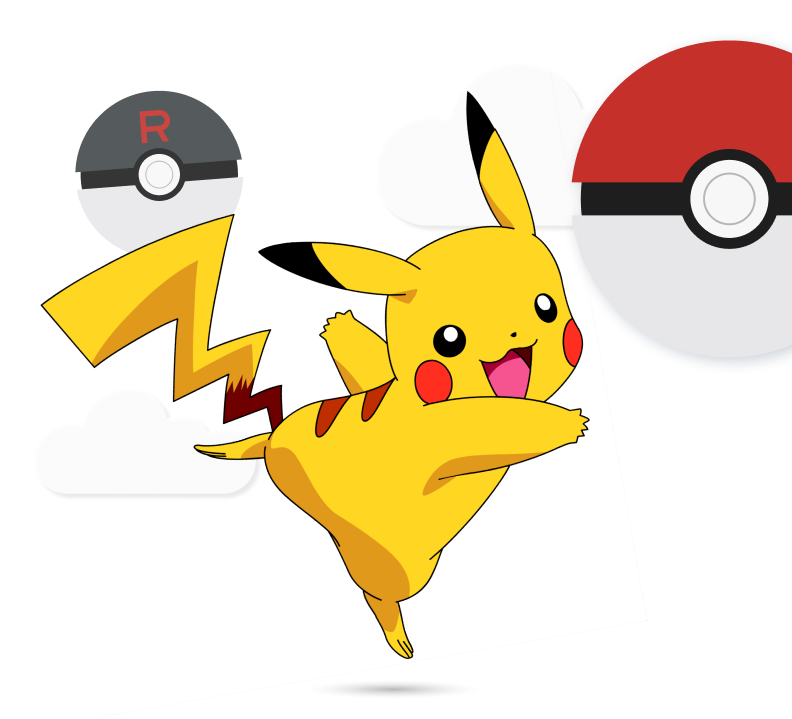
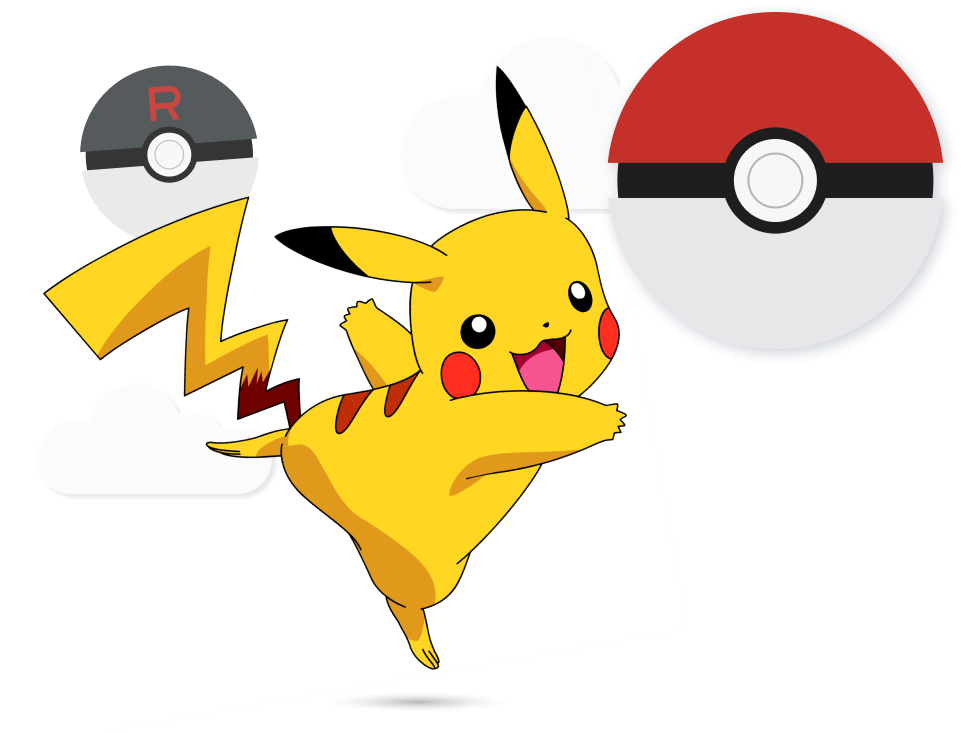
added: new page

diff --git a/pokedex.html b/pokedex.html
@@ -1,0 +1,86 @@
+<!DOCTYPE html>
+<html lang="pt-br">
+  <head>
+    <meta charset="UTF-8" />
+    <meta http-equiv="X-UA-Compatible" content="IE=edge" />
+    <meta name="viewport" content="width=device-width, initial-scale=1.0" />
+    <link rel="stylesheet" href="./styles/style.css" />
+    <link rel="shortcut icon" href="images/favicon.ico" type="image/x-icon" />
+    <link
+      href="https://fonts.googleapis.com/css2?family=Dancing+Script:wght@400;500;600;700&family=Fredoka+One&family=Inter:wght@100;300;500;700;900&family=Karla:wght@200;300;400;500;600;700;800&family=Rakkas&family=Roboto:wght@100;300;400;500;700;900&display=swap"
+      rel="stylesheet"
+    />
+    <title>POKÉDEX</title>
+  </head>
+  <body>
+    <header>
+      <div class="container-background">
+        <div class="container centralization">
+          <div class="menu">
+            <nav>
+              <a href="#"><img src="images/Logo.png" alt="" /></a>
+              <ul>
+                <li><a href="#">Home</a></li>
+                <li><a href="#">Pokédex</a></li>
+                <li><a href="#">Legendaries</a></li>
+                <li><a href="#">Documentation</a></li>
+              </ul>
+            </nav>
+          </div>
+          <div class="menu-mobile">
+            <nav>
+              <a href="#"><img src="images/Logo.png" alt="" /></a>
+              <button>
+                <hr />
+                <hr />
+                <hr />
+              </button>
+            </nav>
+          </div>
+        </div>
+      </div>
+    </header>
+    <main>
+      <div class="container-pokedex centralization">
+        <div class="number-pkm">
+          <h1>800 <strong>Pokemons</strong> for you to choose your favorite</h1>
+          <input type="text" placeholder="Encuentra tu Pokémon..." />
+        </div>
+        <div class="selects">
+          <div class="select-type">
+            <select name="TIPO">
+              <option disabled selected>TIPO</option>
+              <option value="Normal">Normal</option>
+              <option value="Eletric">Eletric</option>
+              <option value="Water">Water</option>
+              <option value="fire">fire</option>
+            </select>
+          </div>
+          <div class="select-type">
+            <select name="ATAQUE">
+              <option disabled selected>ATAQUE</option>
+              <option value="Normal">Normal</option>
+              <option value="Eletric">Eletric</option>
+              <option value="Water">Water</option>
+              <option value="fire">fire</option>
+            </select>
+          </div>
+          <div class="select-type">
+            <select name="TIPO">
+              <option disabled selected>EXPERIÊNCIA</option>
+              <option value="Normal">☐ Normal</option>
+              <option value="Eletric">☑ Eletric</option>
+              <option value="Water">☐ Water</option>
+              <option value="fire">☐ fire</option>
+            </select>
+          </div>
+        </div>
+        <div class="info-bottom">
+          <p>Make with ❤ for the PokéSpartans team Platzi Master</p>
+          <p>Ours Team</p>
+        </div>
+      </div>
+    </main>
+    <footer></footer>
+  </body>
+</html>

diff --git a/styles/style.scss b/styles/style.scss
@@ -93,13 +93,18 @@
   align-items: center ;
 }
 .call-to-action-main {
+  width: 100%;
+  margin-top: 128px;
   h1 {
-    font-weight: 700;
+    
     font-size: 72px;
     line-height: 84px;
     letter-spacing: 4px;
 
     color: #000000;
+    strong{
+      font-weight: 400;
+    }
   }
   p {
     margin-top: 64px;
@@ -125,19 +130,74 @@
   }
 }
 .image-call-to-action-main{
-  img{
-    position: relative;
-    right: -109px;
-  }
+img{
+  position: relative;
+  top: 30px;
+  width: 750px;
+}
 }
 .info-bottom{
   display: flex;
   justify-content: space-between;
   p{
-    margin-bottom: 15px;
+    margin-top: 100px;
   }
 }
 
+.number-pkm{
+  text-align: center;
+  h1{
+    margin: 73px 0 34px 0;
+    font-size: 35px;
+  }
+  input{
+    width: 1088px;
+    height: 53px;
+
+    border-radius: 30px;
+    border: 0;
+    background-color: #F2F2F2;
+    padding-left: 20px;
+
+    font-size: 16px;
+    box-shadow: 4px 4px 16px rgba(1, 28, 64, 0.2);
+    outline: none;
+  }
+  strong{
+    font-weight: 800;
+  }
+}
+.selects{
+  width: 600px;
+  margin-top: 35px;
+  display: flex;
+  justify-content: space-between;
+  position: relative;
+  left: 120px;
+}
+.select-type{
+  select{
+    width: 130px;
+
+  }
+
+}
+
+@media screen and (max-width: 1330px){
+.container-main{
+  flex-direction: column-reverse;
+  padding: 20px;
+}
+.call-to-action-main{
+  text-align: center;
+
+    margin-top: 10px;
+  
+}
+.info-bottom{
+  padding: 20px;
+}
+}
 @media screen and (max-width: 750px) {
   .menu {
     display: none;
@@ -145,4 +205,26 @@
   .menu-mobile {
     display: block;
   }
+  .image-call-to-action-main{
+  
+    img{
+      width: 600px;
+    }
+    }
+}
+@media screen and (max-width: 600px){
+  .image-call-to-action-main{
+  
+    img{
+      width: 400px;
+    }
+    }
+}
+@media screen and (max-width: 400px){
+  .image-call-to-action-main{
+  
+    img{
+      width: 350px;
+    }
+    }
 }

diff --git a/styles/style.css b/styles/style.css
@@ -93,12 +93,18 @@
   align-items: center;
 }
 
+.call-to-action-main {
+  width: 100%;
+  margin-top: 128px;
+}
 .call-to-action-main h1 {
-  font-weight: 700;
   font-size: 72px;
   line-height: 84px;
   letter-spacing: 4px;
   color: #000000;
+}
+.call-to-action-main h1 strong {
+  font-weight: 400;
 }
 .call-to-action-main p {
   margin-top: 64px;
@@ -122,7 +128,8 @@
 
 .image-call-to-action-main img {
   position: relative;
-  right: -109px;
+  top: 30px;
+  width: 750px;
 }
 
 .info-bottom {
@@ -130,14 +137,75 @@
   justify-content: space-between;
 }
 .info-bottom p {
-  margin-bottom: 15px;
+  margin-top: 100px;
 }
 
+.number-pkm {
+  text-align: center;
+}
+.number-pkm h1 {
+  margin: 73px 0 34px 0;
+  font-size: 35px;
+}
+.number-pkm input {
+  width: 1088px;
+  height: 53px;
+  border-radius: 30px;
+  border: 0;
+  background-color: #F2F2F2;
+  padding-left: 20px;
+  font-size: 16px;
+  box-shadow: 4px 4px 16px rgba(1, 28, 64, 0.2);
+  outline: none;
+}
+.number-pkm strong {
+  font-weight: 800;
+}
+
+.selects {
+  width: 600px;
+  margin-top: 35px;
+  display: flex;
+  justify-content: space-between;
+  position: relative;
+  left: 120px;
+}
+
+.select-type select {
+  width: 130px;
+}
+
+@media screen and (max-width: 1330px) {
+  .container-main {
+    flex-direction: column-reverse;
+    padding: 20px;
+  }
+  .call-to-action-main {
+    text-align: center;
+    margin-top: 10px;
+  }
+  .info-bottom {
+    padding: 20px;
+  }
+}
 @media screen and (max-width: 750px) {
   .menu {
     display: none;
   }
   .menu-mobile {
     display: block;
+  }
+  .image-call-to-action-main img {
+    width: 600px;
+  }
+}
+@media screen and (max-width: 600px) {
+  .image-call-to-action-main img {
+    width: 400px;
+  }
+}
+@media screen and (max-width: 400px) {
+  .image-call-to-action-main img {
+    width: 350px;
   }
 }/*# sourceMappingURL=style.css.map */

diff --git a/index.html b/index.html
@@ -47,7 +47,7 @@
         <div class="container-main centralization">
           <div class="call-to-action-main">
             <h1>
-              <strong>Find</strong> all your favorite <strong>Pokemon</strong>
+             Find <strong>all your favorite</strong> Pokemon
             </h1>
             <p>
               You can know the type of Pokemon, its strengths, disadvantages and
